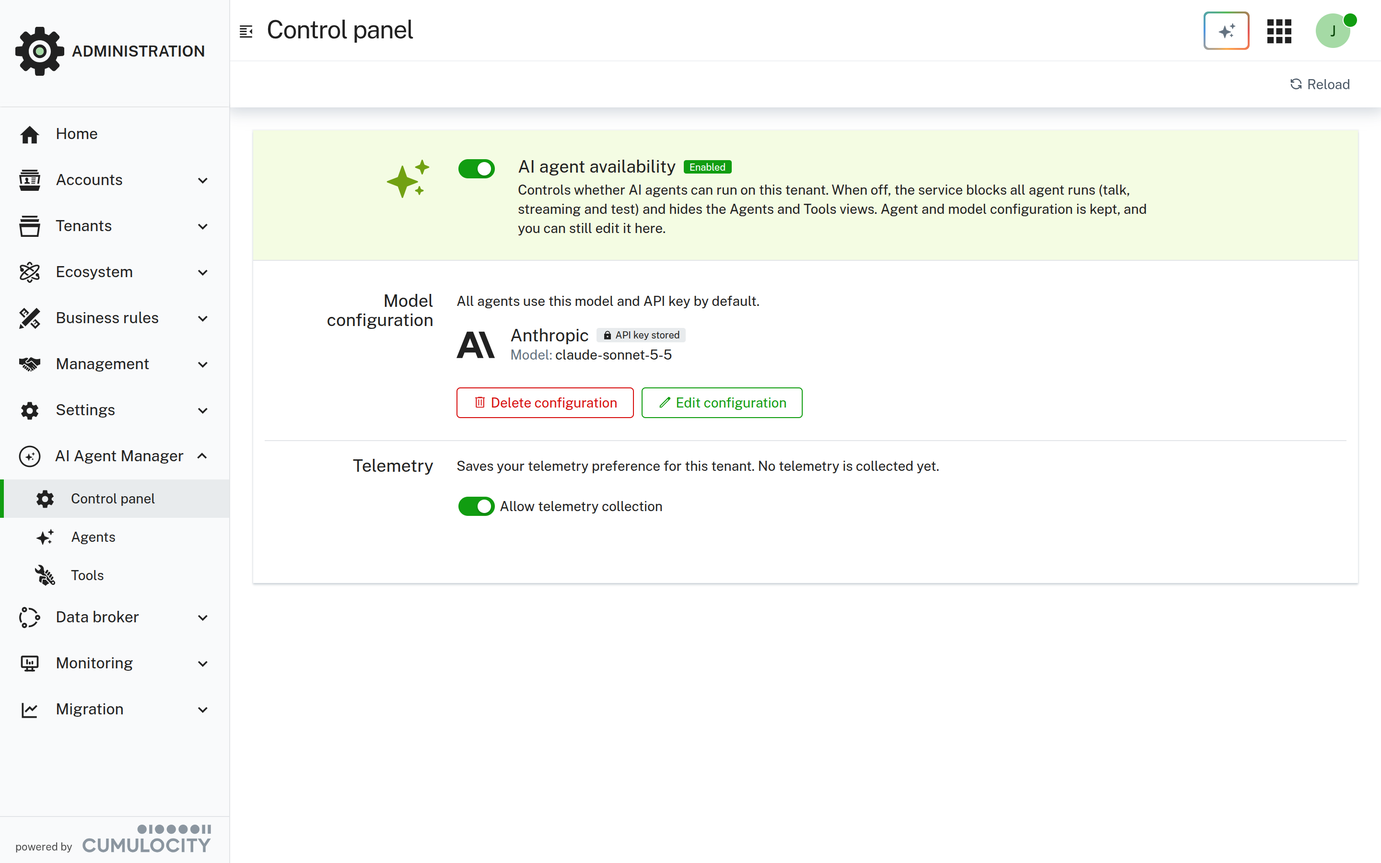
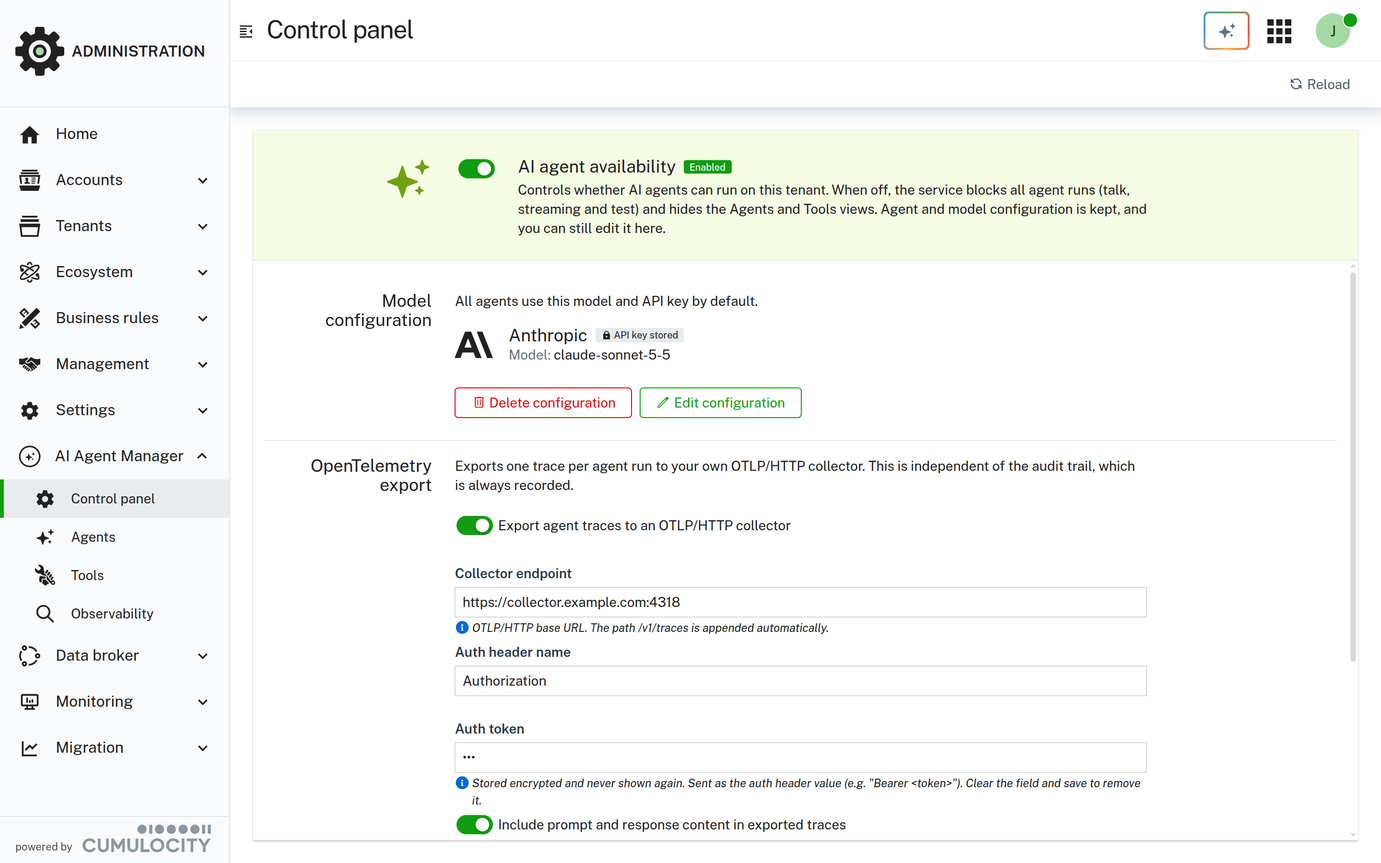
AI Agent Manager: document observability and OpenTelemetry export (3.1.0)
c8y-ai-agents 3.1.0 (Cumulocity-IoT/c8y-ai-agents#765) adds an
Observability page with an audit trail of agent runs and tool calls,
replaces the telemetry switch with a per-tenant OpenTelemetry export,
and adds a Cumulocity-managed export that tenants opt out of via the API.

- New page ai/observability with the runs list, tool-call timeline,
  what is recorded and where the audit records are stored.
- Control panel: replace the Telemetry section with OpenTelemetry export.
- REST API: telemetryExport settings, export credentials, managed export
  opt-out, and the observability endpoints.
- Introduction and AI FAQ updated; new and retaken screenshots.

diff --git a/content/ai/control-panel.md b/content/ai/control-panel.md
@@ -12,13 +12,13 @@ weight: 15
 
 The control panel is the central place to manage the AI features of your tenant. To open it, navigate to **AI Agent Manager** > **Control panel** in the Administration application.
 
-![The control panel with the availability switch, the model configuration, and the telemetry setting](/images/agents/control_panel.png)
+![The control panel with the availability switch, the model configuration, and the OpenTelemetry export](/images/agents/control_panel.png)
 
 The control panel has three sections:
 
 - **AI agent availability**: A kill switch that turns all AI agents in the tenant on or off.
 - **Model configuration**: The provider, model, and API key that all agents use by default, also called the global provider.
-- **Telemetry**: The telemetry preference of the tenant.
+- **OpenTelemetry export**: Export a trace of every agent run to your own OpenTelemetry collector.
 
 {{< c8y-admon-info >}}
 The control panel is only available to users with the ROLE_AI_AGENT_ADMIN permission. Users with only the ROLE_AI_AGENT_READ permission see the **Agents** and **Tools** pages, but not the control panel.
@@ -32,7 +32,7 @@ When you turn the switch off:
 
 - The AI Agent Manager blocks every agent run in the tenant. This includes calls to text and object agents, streaming calls, and tests in the AI Agent Manager. Such calls fail with the HTTP status 403 (Forbidden) and the message "AI agents are disabled for this tenant".
 - Applications and features that rely on AI agents, such as AI chat widgets or AI assistants in other applications, no longer get a response from their agents.
-- The **Agents** and **Tools** pages are hidden in the navigator. Only the **Control panel** remains available.
+- The **Agents** and **Tools** pages are hidden in the navigator. The **Control panel** and the [Observability](/ai/observability/) page remain available, so you can still review past agent runs.
 - All agent definitions, MCP server configurations, and the model configuration are kept. You can still edit the model configuration in the **Control panel**.
 
 To disable all AI agents:
@@ -95,6 +95,54 @@ The API key is stored securely inside the platform and is never shown again afte
 
 Agents that do not define their own local provider cannot run until you configure a new model.
 
-### Telemetry {#telemetry}
+### OpenTelemetry export {#opentelemetry-export}
 
-The **Allow telemetry collection** switch saves your telemetry preference for the tenant. Currently, no telemetry is collected by the AI Agent Manager. The switch only records your preference.
+The **OpenTelemetry export** section sends a trace of every agent run to your own [OpenTelemetry](https://opentelemetry.io/) collector, for example, to analyze agent runs in Grafana, Jaeger, or another tracing backend. The export uses the OTLP/HTTP protocol.
+
+The export is independent of the [Observability](/ai/observability/) page. The AI Agent Manager always records the metadata of every agent run there, whether the export is on or off.
+
+![The OpenTelemetry export section of the control panel](/images/agents/control_panel_telemetry_export.png)
+
+#### Configuring the export {#configuring-the-opentelemetry-export}
+
+1. Navigate to **AI Agent Manager** > **Control panel**.
+2. In the **OpenTelemetry export** section, turn on **Export agent traces to an OTLP/HTTP collector**. The other fields are only editable while this switch is on.
+3. In the **Collector endpoint** field, enter the OTLP/HTTP base URL of your collector, for example, `https://collector.example.com:4318`. The path `/v1/traces` is appended automatically. The collector must be reachable from the {{< product-c8y-iot >}} platform, not only from your browser.
+4. If your collector requires authentication, enter the **Auth header name** and the **Auth token**. The token is sent as the value of the header, so include the scheme if needed, for example, `Bearer <token>`. If you leave the header name empty, `Authorization` is used.
+5. Select which data is exported:
+   - **Include prompt and response content in exported traces**: Exports the prompts, system prompts, tool definitions, tool call arguments and results, and responses. This switch is on by default. If you turn it off, the traces only contain metadata such as timings, token usage, the model, and the agent and tool names.
+   - **Include the user ID in exported traces**: Adds the ID of the user who ran the agent. This switch is off by default.
+6. Optionally, enter a **Trace viewer URL template** to link the runs on the [Observability](/ai/observability/#ai-agent-runs) page to their trace in your tracing backend. Use the placeholder `{telemetryId}` for the trace ID, for example, `https://grafana.example.com/explore?traceID={telemetryId}`.
+7. Click **Save export settings**.
+
+The changes apply to the next agent run. To stop the export, turn off **Export agent traces to an OTLP/HTTP collector** and click **Save export settings**.
+
+{{< c8y-admon-important >}}
+If **Include prompt and response content in exported traces** is on, the content of every agent run leaves the {{< product-c8y-iot >}} platform and is stored in your collector. This includes any data that tools return to the agent, such as device data. Make sure that your collector and tracing backend meet your data protection requirements, or turn off the content to export metadata only.
+{{< /c8y-admon-important >}}
+
+The auth token is stored encrypted inside the platform and is never shown again after you saved it. The **Auth token** field shows `***` for a stored token:
+
+- To keep the stored token, leave `***` in the field. You can change the **Auth header name** without entering the token again.
+- To replace the token, enter the new token.
+- To remove the token, clear the field and click **Save export settings**.
+
+The protocol (`http/protobuf` or `http/json`), the service name, and the sample ratio of the export can only be changed via the REST API, see [Tenant settings](/ai/rest-api/#tenant-settings).
+
+#### Content of the traces {#content-of-the-traces}
+
+Each agent run creates one trace. Its root span is named `agent:<agent name>`, and its child spans cover the calls to the LLM provider and the tool calls of the run. The spans follow the [OpenTelemetry semantic conventions for generative AI](https://opentelemetry.io/docs/specs/semconv/gen-ai/) (`gen_ai.*` attributes) and also carry the following attributes:
+
+| Attribute | Description |
+|-----------|-------------|
+| `c8y.agent.name` | The name of the agent. |
+| `c8y.agent.mode` | `generate` or `stream` for text agents, `object` for object agents. |
+| `c8y.tenant` | The ID of the tenant. Also set as a resource attribute. |
+| `c8y.telemetry_id` | The trace ID, which is also shown on the [Observability](/ai/observability/) page. |
+| `user.id` | The ID of the user who ran the agent. Only if **Include the user ID in exported traces** is on. |
+
+The resource attribute `service.name` is `c8y-ai-agents`, unless you set a different service name via the REST API.
+
+{{< c8y-admon-info >}}
+Depending on your {{< product-c8y-iot >}} environment, the AI Agent Manager can also export traces to a collector operated by {{< company-c8y >}}. This export is independent of the export that you configure here. Turning off the content of your export does not change it. To opt out of it, see [{{< company-c8y >}}-managed telemetry export](/ai/rest-api/#managed-telemetry-export).
+{{< /c8y-admon-info >}}

diff --git a/content/ai/rest-api.md b/content/ai/rest-api.md
@@ -214,7 +214,8 @@ The tenant-wide settings of the AI Agent Manager, such as the kill switch of the
 | Field | Default | Description |
 |-------|---------|-------------|
 | `killSwitch` | `false` | If `true`, all AI agents of the tenant are disabled. |
-| `telemetryOptOut` | `false` | If `true`, the tenant opted out of telemetry collection. Currently, no telemetry is collected. |
+| `telemetryOptOut` | `false` | If `true`, the tenant opts out of the [{{< company-c8y >}}-managed telemetry export](#managed-telemetry-export). |
+| `telemetryExport` | `{"enabled": false}` | The configuration of the [OpenTelemetry export](/ai/control-panel/#opentelemetry-export) to your own collector, see below. |
 
 For example, to disable all AI agents of the tenant:
 
@@ -226,3 +227,98 @@ PUT /service/ai/settings
 ```
 
 While `killSwitch` is `true`, every agent run is rejected with the HTTP status 403 (Forbidden) and the message "AI agents are disabled for this tenant". This applies to text and object agents, streaming calls, and tests.
+
+#### OpenTelemetry export {#opentelemetry-export}
+
+The `telemetryExport` object configures the [OpenTelemetry export](/ai/control-panel/#opentelemetry-export) of the control panel. Some of its fields are only available via the REST API.
+
+| Field | Default | Description |
+|-------|---------|-------------|
+| `enabled` | `false` | Required. If `true`, a trace of every agent run is exported to `endpoint`. |
+| `endpoint` | - | The OTLP/HTTP base URL of the collector, for example, `https://collector.example.com:4318`. The path `/v1/traces` is appended automatically. |
+| `protocol` | `http/protobuf` | The OTLP/HTTP encoding, `http/protobuf` or `http/json`. Only available via the REST API. |
+| `serviceName` | `c8y-ai-agents` | The resource attribute `service.name` of the exported traces. Only available via the REST API. |
+| `sampleRatio` | `1` | The share of agent runs that is exported, from `0` to `1`. For example, `0.25` exports every fourth run on average. Only available via the REST API. |
+| `recordContent` | `true` | If `true`, the prompts, responses, and tool call arguments and results are included in the traces. |
+| `recordUserId` | `false` | If `true`, the ID of the user who ran the agent is included in the traces. |
+| `traceViewerUrlTemplate` | - | A URL with the placeholder `{telemetryId}` that the [Observability](/ai/observability/) page uses to link runs to their trace. |
+
+`PUT /service/ai/settings` replaces the `telemetryExport` object as a whole, so always provide all of its fields that you want to keep. For example, to export half of the agent runs as JSON without content:
+
+```
+PUT /service/ai/settings
+{
+  "telemetryExport": {
+    "enabled": true,
+    "endpoint": "https://collector.example.com:4318",
+    "protocol": "http/json",
+    "sampleRatio": 0.5,
+    "recordContent": false,
+    "recordUserId": false,
+    "traceViewerUrlTemplate": "https://grafana.example.com/explore?traceID={telemetryId}"
+  }
+}
+```
+
+The auth token of the export is not part of the settings. It is stored encrypted and managed at `/service/ai/settings/telemetry/credentials`. All requests require the ROLE_AI_AGENT_ADMIN permission:
+
+- `GET /service/ai/settings/telemetry/credentials` returns whether a token is stored and the header name, for example, `{"configured": true, "authHeaderName": "Authorization"}`. The token is never returned.
+- `PUT /service/ai/settings/telemetry/credentials` stores the token. Provide the full header value as `authToken`, for example, `{"authHeaderName": "Authorization", "authToken": "Bearer <token>"}`. If `authHeaderName` is not provided, `Authorization` is used. To change only the header name and keep the stored token, send `***` as `authToken`.
+- `DELETE /service/ai/settings/telemetry/credentials` removes the token.
+
+#### {{< company-c8y >}}-managed telemetry export {#managed-telemetry-export}
+
+Depending on your {{< product-c8y-iot >}} environment, the AI Agent Manager also exports a trace of every agent run to an OpenTelemetry collector operated by {{< company-c8y >}}. These traces include the prompts, responses, and tool call arguments and results of the agent runs, but never the ID of the user who ran the agent. This export is independent of your own `telemetryExport` and of its `recordContent` setting.
+
+To opt out of the {{< company-c8y >}}-managed telemetry export, set `telemetryOptOut` to `true`:
+
+```
+PUT /service/ai/settings
+{
+  "telemetryOptOut": true
+}
+```
+
+The opt-out is only available via the REST API. It does not affect your own `telemetryExport` or the [Observability](/ai/observability/) page, which keep working.
+
+### Observability {#observability}
+
+The audit trail of the [Observability](/ai/observability/) page is available at `/service/ai/observability`. Both requests require the ROLE_AI_AGENT_ADMIN or ROLE_AI_AGENT_READ permission and only return metadata, never the content of a run.
+
+`GET /service/ai/observability` returns the agent runs of the tenant, newest first. It supports the following query parameters:
+
+| Parameter | Description |
+|-----------|-------------|
+| `pageSize` | The number of runs per page. The default is 50. |
+| `currentPage` | The page to return, starting with 1. |
+| `dateFrom`, `dateTo` | Only return runs in this time range, as ISO 8601 date. |
+| `sortOrder` | `desc` (default) for newest first, `asc` for oldest first. |
+| `agentName` | Only return runs of agents whose name contains this text, regardless of upper or lower case. Only the 2000 newest runs of the date range are searched. |
+
+For example, `GET /service/ai/observability?pageSize=1&agentName=weather` returns:
+
+```json
+{
+  "records": [
+    {
+      "id": "8712",
+      "time": "2026-10-27T09:41:12.512Z",
+      "kind": "run",
+      "agentName": "weather-agent",
+      "runResult": "succeeded",
+      "durationMs": 2380,
+      "usage": { "inputTokens": 1820, "outputTokens": 164, "totalTokens": 1984 },
+      "finishReason": "stop",
+      "telemetryId": "4bf92f3577b34da6a3ce929d0e0e4736",
+      "user": "jane.doe"
+    }
+  ],
+  "currentPage": 1,
+  "pageSize": 1,
+  "totalRecords": 12
+}
+```
+
+`runResult` is `succeeded` or `failed`. The `telemetryId` is the ID of the OpenTelemetry trace of the run.
+
+`GET /service/ai/observability/tools?telemetryId=<telemetryId>` returns the tool calls of a run in the order they were called, in the same format with `kind` set to `tool`. Each record has a `toolName` and a `toolCallResult`, which is `succeeded`, `failed`, or `denied` if the user rejected the tool call. Only the 10000 newest tool calls of the date range are searched. To find the tool calls of older runs, limit the request to the time of the run with `dateFrom` and `dateTo`. The `time` of a run is the time when it ended, so use the `time` minus the `durationMs` of the run as `dateFrom` and the `time` as `dateTo`, with a few seconds of margin on both sides.

diff --git a/content/ai/observability.md b/content/ai/observability.md
@@ -1,0 +1,84 @@
+---
+title: Observability
+layout: bundle
+outputs:
+  - html
+  - json
+  - markdown
+sector:
+  - app_enablement
+weight: 57
+---
+
+The **Observability** page shows an audit trail of all agent runs in your tenant and the tool calls of each run. Use it to see which agents run, who runs them, whether they succeed, how long they take, and how many tokens they use. To open it, navigate to **AI Agent Manager** > **Observability** in the Administration application.
+
+The AI Agent Manager records every agent run, including calls via the REST API, AI chat widgets, AI assistants in other applications, and tests in the AI Agent Manager. The audit trail only contains metadata and never the content of a run, see [What is recorded](/ai/observability/#what-is-recorded).
+
+{{< c8y-admon-info >}}
+The **Observability** page is available to users with the ROLE_AI_AGENT_ADMIN or the ROLE_AI_AGENT_READ permission. It remains available while AI agents are disabled with the [kill switch](/ai/control-panel/#ai-agent-availability), so you can still review past agent runs.
+{{< /c8y-admon-info >}}
+
+### AI agent runs {#ai-agent-runs}
+
+The list shows the agent runs of your tenant, newest first.
+
+![The Observability page lists the agent runs of the tenant](/images/agents/observability_runs.png)
+
+Each run is shown with the following information:
+
+- **Time**: The time when the run ended.
+- **Agent**: The name of the agent.
+- **Success**: A green check mark if the run succeeded, a red cross if it failed.
+- **Duration (ms)**: The duration of the run in milliseconds.
+- **Tokens**: The total number of input and output tokens of the run.
+- **User**: The user who ran the agent.
+- **Trace**: The beginning of the trace ID of the run. Click the copy icon to copy the full trace ID. If you configured a **Trace viewer URL template** in the [OpenTelemetry export](/ai/control-panel/#opentelemetry-export), the trace ID is a link that opens the trace in your tracing backend.
+
+Use the following options to find runs:
+
+- **Date range**: Click the date range button in the action bar, which shows **All time** by default. Select a **From date** and a **To date** and click **Apply**. Click **Clear** to show all runs again.
+- **Agent**: Click the column header **Agent** to filter the runs by the agent name. The filter matches every agent name that contains the text, regardless of upper or lower case. It only searches the 2000 newest runs of the selected date range. To find older runs, narrow the date range.
+- **Time**: Click the column header **Time** to sort the runs by time.
+
+### Tool calls of a run {#tool-calls-of-a-run}
+
+Click the arrow at the start of a row to expand the run. The tool calls of the run are shown as a timeline in the order they were called.
+
+![An expanded run shows its tool calls as a timeline](/images/agents/observability_tool_calls.png)
+
+For each tool call, the timeline shows the time, the name of the tool, and the duration in milliseconds. The icon shows whether the tool call succeeded or failed. If a tool call [requires approval](/ai/agents/#ai-agent-test) and the user rejected it, the tool call is marked as **Denied**. Denied tool calls never run, so they have no duration.
+
+If the agent did not call any tools, "No tool calls for this run." is shown.
+
+### What is recorded {#what-is-recorded}
+
+The audit trail only contains metadata. For each run, the AI Agent Manager records the following information:
+
+- The agent name, and whether the agent was called as a text agent, as a streaming text agent, or as an object agent.
+- Whether the run succeeded or failed, its duration, the reason why the model stopped, and the input, output, and total tokens.
+- The user who ran the agent.
+- The trace ID (`telemetryId`).
+
+For each tool call, it records the agent and tool name, the trace ID of the run, the user, whether the call succeeded, failed, or was denied, and its duration. For failed tool calls, only the type of the error is recorded, not the error message.
+
+The audit trail never contains prompts, system prompts, responses, or tool call arguments and results. To analyze the content of agent runs, export the runs to your own collector with the [OpenTelemetry export](/ai/control-panel/#opentelemetry-export).
+
+### Where the records are stored {#where-the-records-are-stored}
+
+The AI Agent Manager stores the records as [audit logs](/standard-tenant/monitoring/#audit-logs) of your tenant with the following types:
+
+| Type | Description |
+|------|-------------|
+| `c8y_AiAgentRun` | An agent run. |
+| `c8y_AiToolCall` | A tool call of an agent run. |
+| `c8y_AiAgentDefinition` | A custom agent was created, updated, or deleted. These records are not shown on the **Observability** page. |
+
+The source of all records is a managed object named "AI Agents" of type `c8y_AiAgentService`, which the AI Agent Manager creates automatically with the first record. The records are kept according to the [retention rules](/standard-tenant/managing-data/#retention-rules) for audit logs of your tenant.
+
+To read the records programmatically, see [Observability](/ai/rest-api/#observability) in the REST API documentation.
+
+### Linking runs to traces {#linking-runs-to-traces}
+
+Every run has a trace ID, also called `telemetryId`. It is the ID of the OpenTelemetry trace of the run and connects the run with its tool calls on the **Observability** page and with the trace in your tracing backend, if you export traces with the [OpenTelemetry export](/ai/control-panel/#opentelemetry-export).
+
+To find the trace of a run in your tracing backend, copy the trace ID in the **Trace** column and search for it in your backend. To open traces with one click instead, configure a **Trace viewer URL template** in the OpenTelemetry export, for example, `https://grafana.example.com/explore?traceID={telemetryId}`.

diff --git a/content/ai/aim-introduction.md b/content/ai/aim-introduction.md
@@ -20,7 +20,7 @@ helpcontent:
   You create specialized assistants for specific use cases like equipment monitoring or device troubleshooting. Connect agents to Cumulocity IoT data through built-in tools or extend them with custom tools via MCP servers. The built-in test interface shows you what tools the agent is calling and how it reasons.
 
   
-  The AI Agent Manager has three pages in the navigator: **Control panel**, **Agents**, and **Tools**. In the control panel, you turn all AI agents on or off for your tenant and configure the default provider, model, and API key.
+  The AI Agent Manager has four pages in the navigator: **Control panel**, **Agents**, **Tools**, and **Observability**. In the control panel, you turn all AI agents on or off for your tenant and configure the default provider, model, and API key. On the Observability page, you review every agent run and its tool calls.
 
   
 To get started, open **AI Agent Manager** > **Control panel** in the Administration application and add a model configuration. Tested providers include Anthropic, OpenAI, Google Gemini, and Azure OpenAI. Use **Test configuration** to validate your settings before saving them. Without a model configuration, the Cumulocity platform is never connected to any external Large Language Model (LLM) provider."
@@ -59,15 +59,18 @@ Once configured, users interact with agents through natural language without nee
 
 - **Control AI usage**: Turn off all AI agents in your tenant at once with the kill switch in the control panel, for example, to stop AI activity immediately.
 
+- **Monitor AI usage**: Review every agent run with its tool calls, duration, token usage, and user in an audit trail, and export traces of the runs to your own OpenTelemetry collector.
+
 ### Navigating the AI Agent Manager {#navigating-the-ai-agent-manager}
 
 Once the preview feature is enabled, the **AI Agent Manager** appears as its own entry in the navigator of the Administration application. It contains the following pages:
 
-- **Control panel**: Turn all AI agents on or off for your tenant and configure the default provider, model, and API key. This page is only visible to users with the ROLE_AI_AGENT_ADMIN permission. See [Control panel](/ai/control-panel/).
+- **Control panel**: Turn all AI agents on or off for your tenant, configure the default provider, model, and API key, and set up the OpenTelemetry export. This page is only visible to users with the ROLE_AI_AGENT_ADMIN permission. See [Control panel](/ai/control-panel/).
 - **Agents**: Browse, create, configure, and test agents. See [Agents](/ai/agents/).
 - **Tools**: Browse and test the available tools and configure MCP servers. See [Tools and MCP](/ai/tools-mcp/).
+- **Observability**: Review the agent runs of your tenant and their tool calls. See [Observability](/ai/observability/).
 
-If AI agents are disabled in the control panel, the **Agents** and **Tools** pages are hidden.
+If AI agents are disabled in the control panel, the **Agents** and **Tools** pages are hidden. The **Observability** page remains available.
 
 ### Getting started by configuring a model {#getting-started-by-configuring-a-global-provider}
 
@@ -108,4 +111,5 @@ If successful, your provider is correctly configured, and you can start to use a
  - See how you can leverage [local providers](/ai/agents/#local-providers) to overwrite the provider or model of a global provider.
  - Understand the available [tools and how you can extend them with MCP](/ai/tools-mcp/).
  - Let agents work with the complete API of your tenant in [code mode with AI Workbench](/ai/ai-workbench/).
+ - Monitor agent runs on the [Observability](/ai/observability/) page and export them to your own collector with the [OpenTelemetry export](/ai/control-panel/#opentelemetry-export).
  - You can also manage agents programmatically [via the REST API](/ai/rest-api/) for integration into your own applications and workflows. 

diff --git a/content/concepts/concepts-ai-bundle/ai-in-cumulocity.md b/content/concepts/concepts-ai-bundle/ai-in-cumulocity.md
@@ -111,7 +111,7 @@ A. While {{< company-c8y >}} supports the integration and connectivity to config
 
 **Q. Can a {{< company-c8y >}} employee read our prompts?**
 
-A. Prompts pass through the platform with access inside {{< product-c8y-iot >}} governed by the controls in your tenant and by the {{< product-c8y-iot >}} DPA.  Access inside the LLM provider’s systems is governed by that provider’s terms.  Certain out-of-the-box features (such as Data Preparation) utilize automated telemetry via Gainsight (which can be disabled) and pre-delivery testing to evaluate system health, token consumption, response quality, and overall product performance. This information is used for performance assessment and product improvement.
+A. Prompts pass through the platform with access inside {{< product-c8y-iot >}} governed by the controls in your tenant and by the {{< product-c8y-iot >}} DPA.  Access inside the LLM provider’s systems is governed by that provider’s terms.  Certain out-of-the-box features (such as Data Preparation) utilize automated telemetry via Gainsight (which can be disabled) and pre-delivery testing to evaluate system health, token consumption, response quality, and overall product performance. This information is used for performance assessment and product improvement. Depending on the environment, the AI Agent Manager exports traces of agent runs, including prompts and responses but not user IDs, to an OpenTelemetry collector operated by {{< company-c8y >}}. Tenant administrators can opt out of this export via the [REST API](/ai/rest-api/#managed-telemetry-export).
 
 **Q. Are subscribed agents (provided by installed applications) different?**
 
